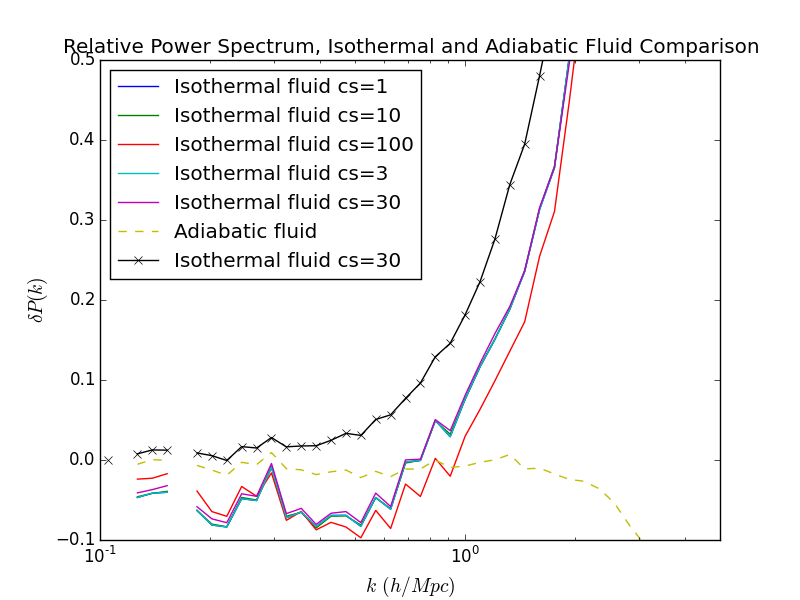
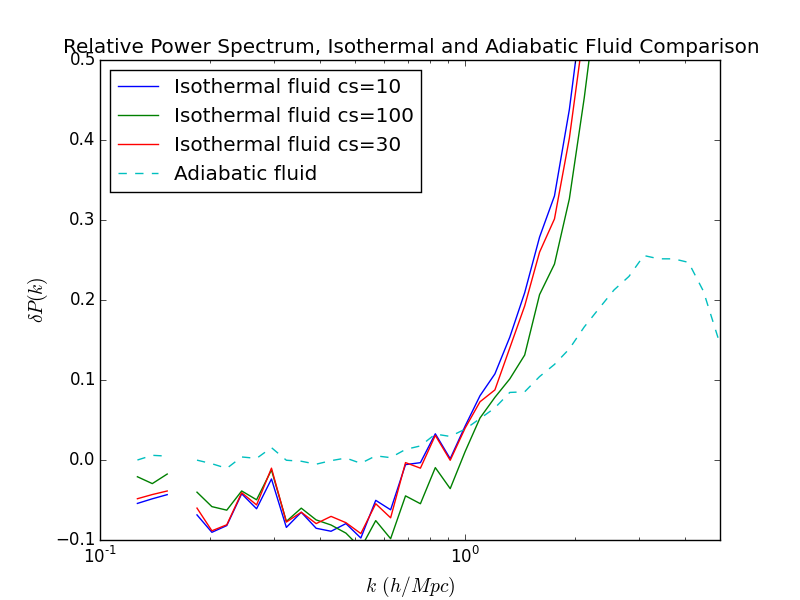
Higher resolution.

diff --git a/plots/isothermal/isothermal_fluid_low_adiabatic_normalized_particle.py b/plots/isothermal/isothermal_fluid_low_adiabatic_normalized_particle.py
@@ -11,16 +11,15 @@ npattern = re.compile(r'_n(\d+)')
 
 simtypes = ['fluid']
 for simtype in simtypes:
-    params = [simtype,'b100','n512','t0.005','h2','isothermal']
+    params = [simtype,'b100','n1024','t0.005','h2','isothermal']
     filenames = [filename for filename in results if all(param in filename for param in params)]
-    filenames.append('fluid_b100_n512_t0.005_h2_z50.out')
-    filenames.append('fluid_b100_n1024_t0.005_h2_isothermal30_minpressure.out')
-    base = 'particle_b100_n512_t0.005_h2_z50.out'
+    filenames.append('fluid_b100_n1024_t0.005_h2_z50.out')
+    base = 'particle_b100_n1024_t0.005_h2_z50.out'
     
     kvalues_base, ps_base = np.loadtxt(result_dir+base, unpack=True)
 
     for filename in filenames:
-        if 'isothermal' in filename:
+        if 'isothermal' in filename and 'minpressure' not in filename:
             isothermal = isothermalpattern.findall(filename)[0]
             if int(isothermal) < 300:
                 n = npattern.findall(filename)[0]
@@ -28,7 +27,7 @@ for simtype in simtypes:
                 ps = (ps - ps_base)/ps_base
                 style = '-x' if 'minpressure' in filename else '-'
                 plt.semilogx(kvalues, ps, style, label='Isothermal fluid cs='+isothermal)
-        elif filename is 'fluid_b100_n512_t0.005_h2_z50.out': 
+        elif filename is 'fluid_b100_n1024_t0.005_h2_z50.out': 
             kvalues, ps = np.loadtxt(result_dir+filename, unpack=True)
             ps = (ps - ps_base)/ps_base
             plt.semilogx(kvalues, ps, '--', label='Adiabatic fluid')
